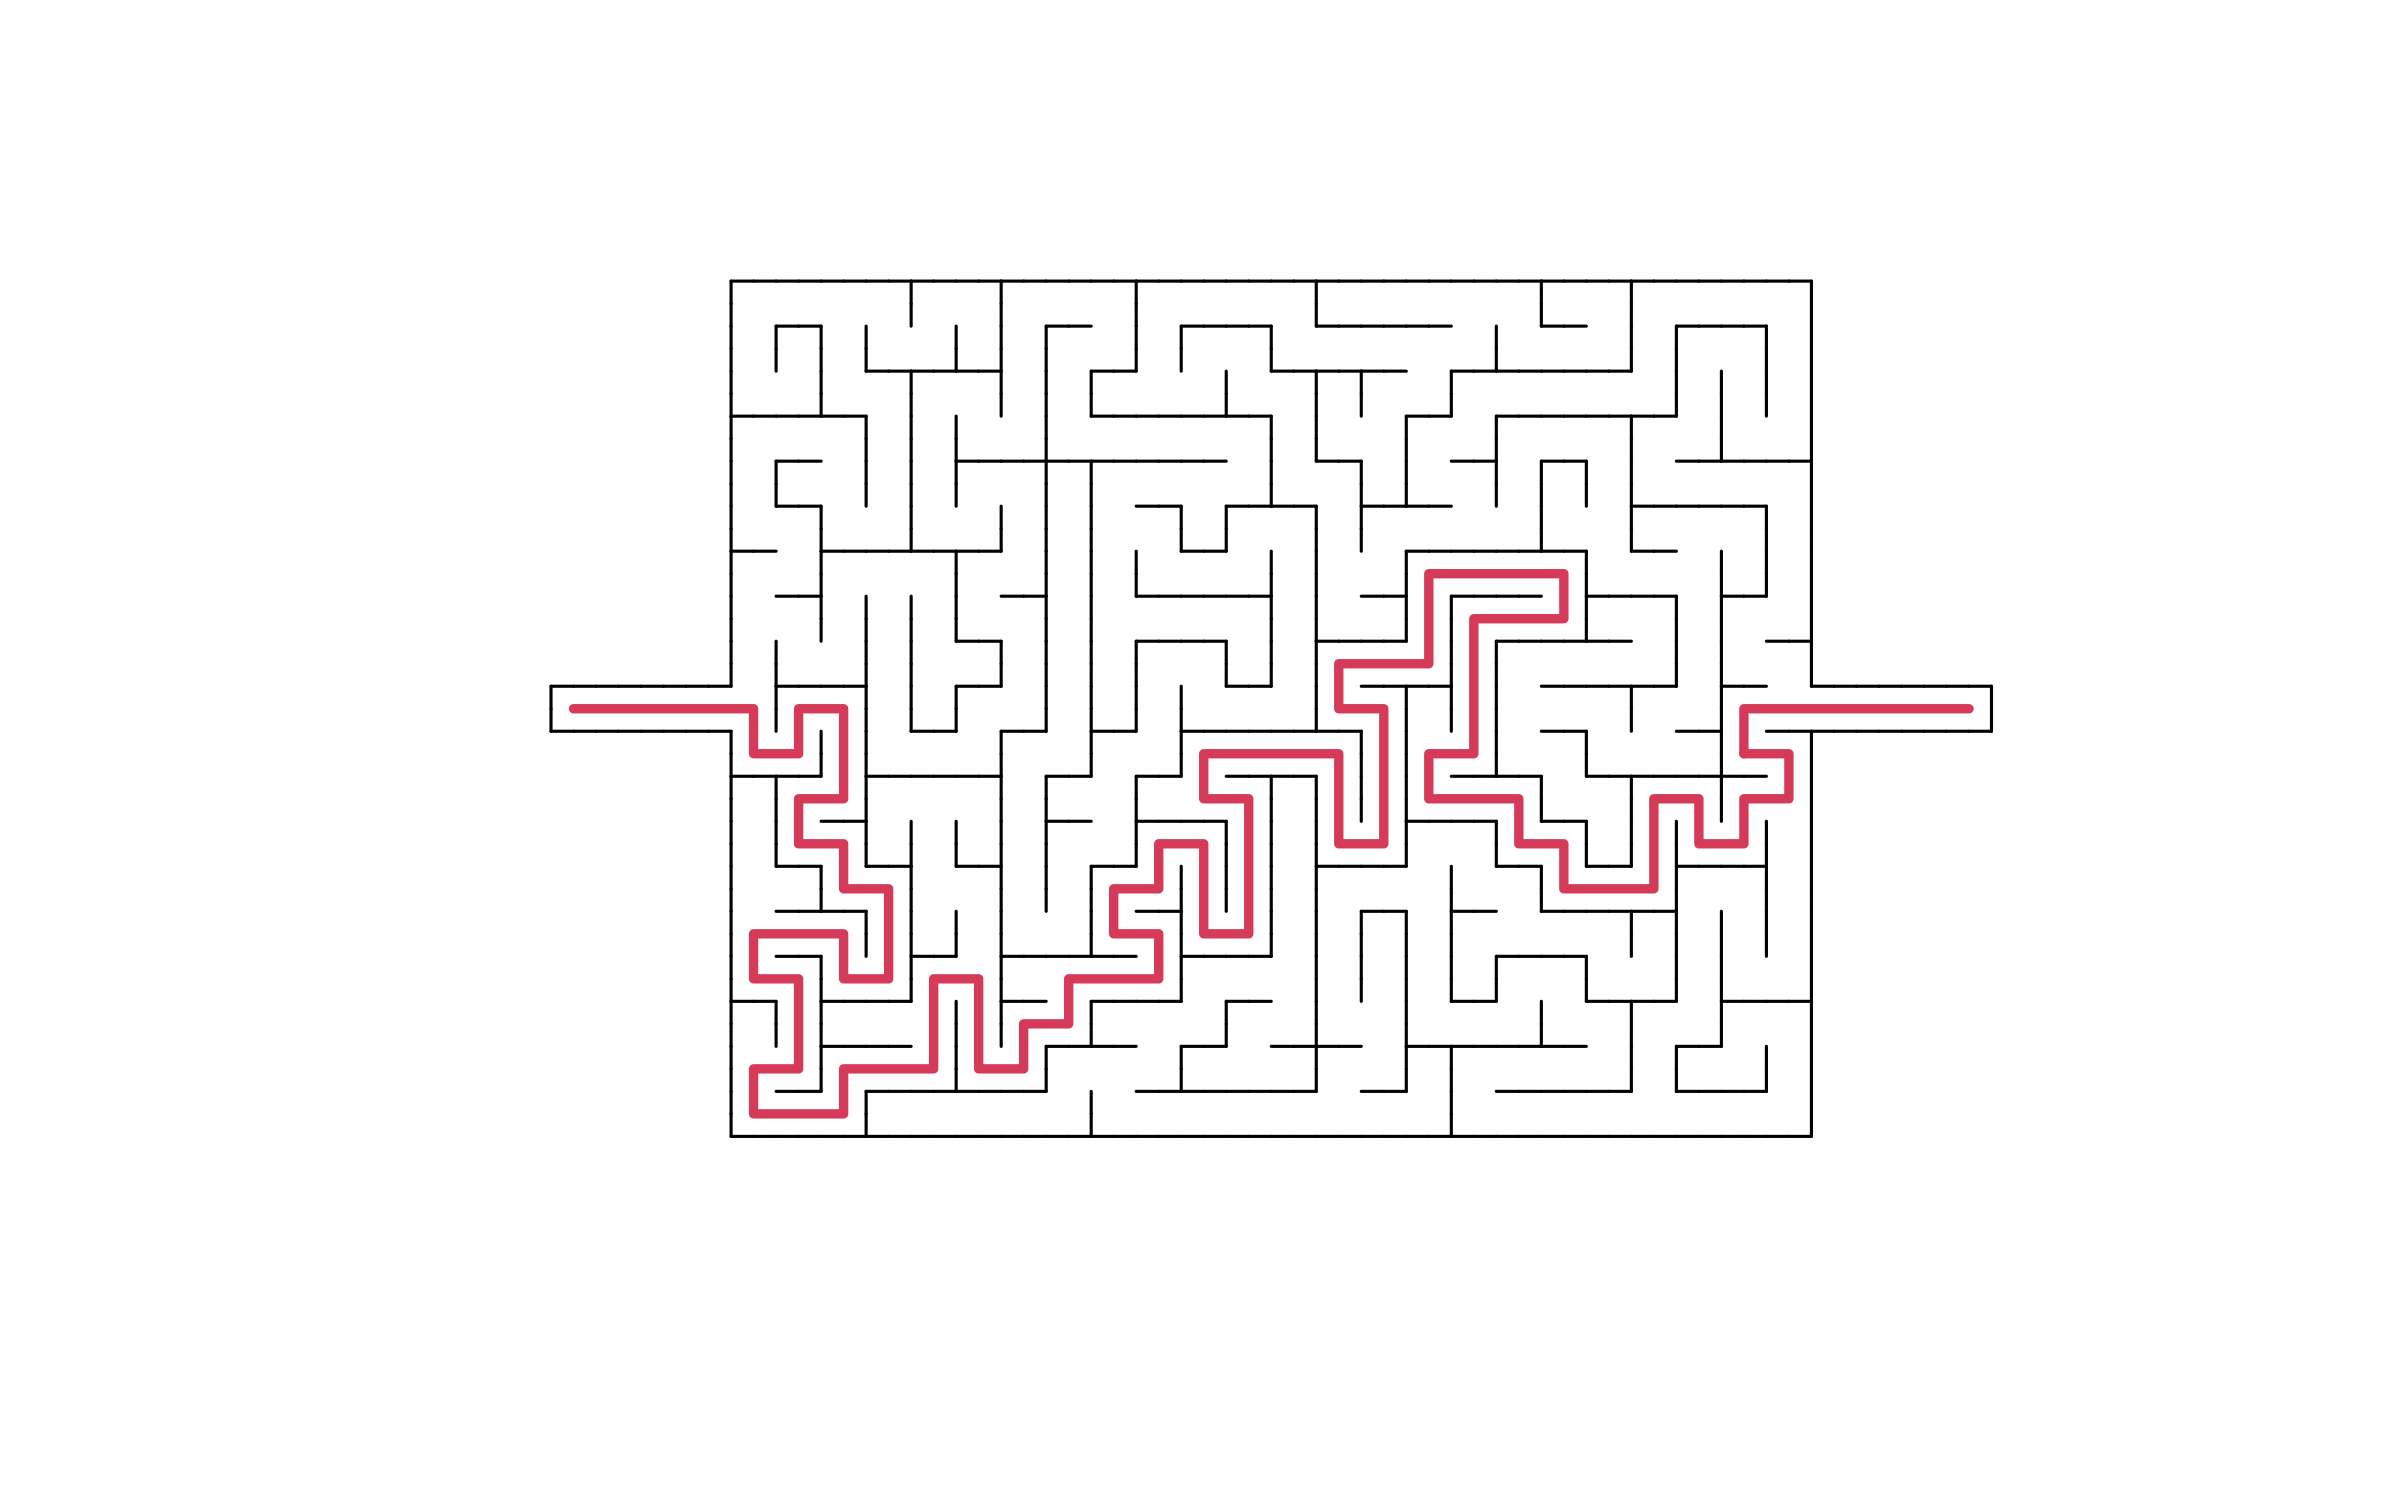
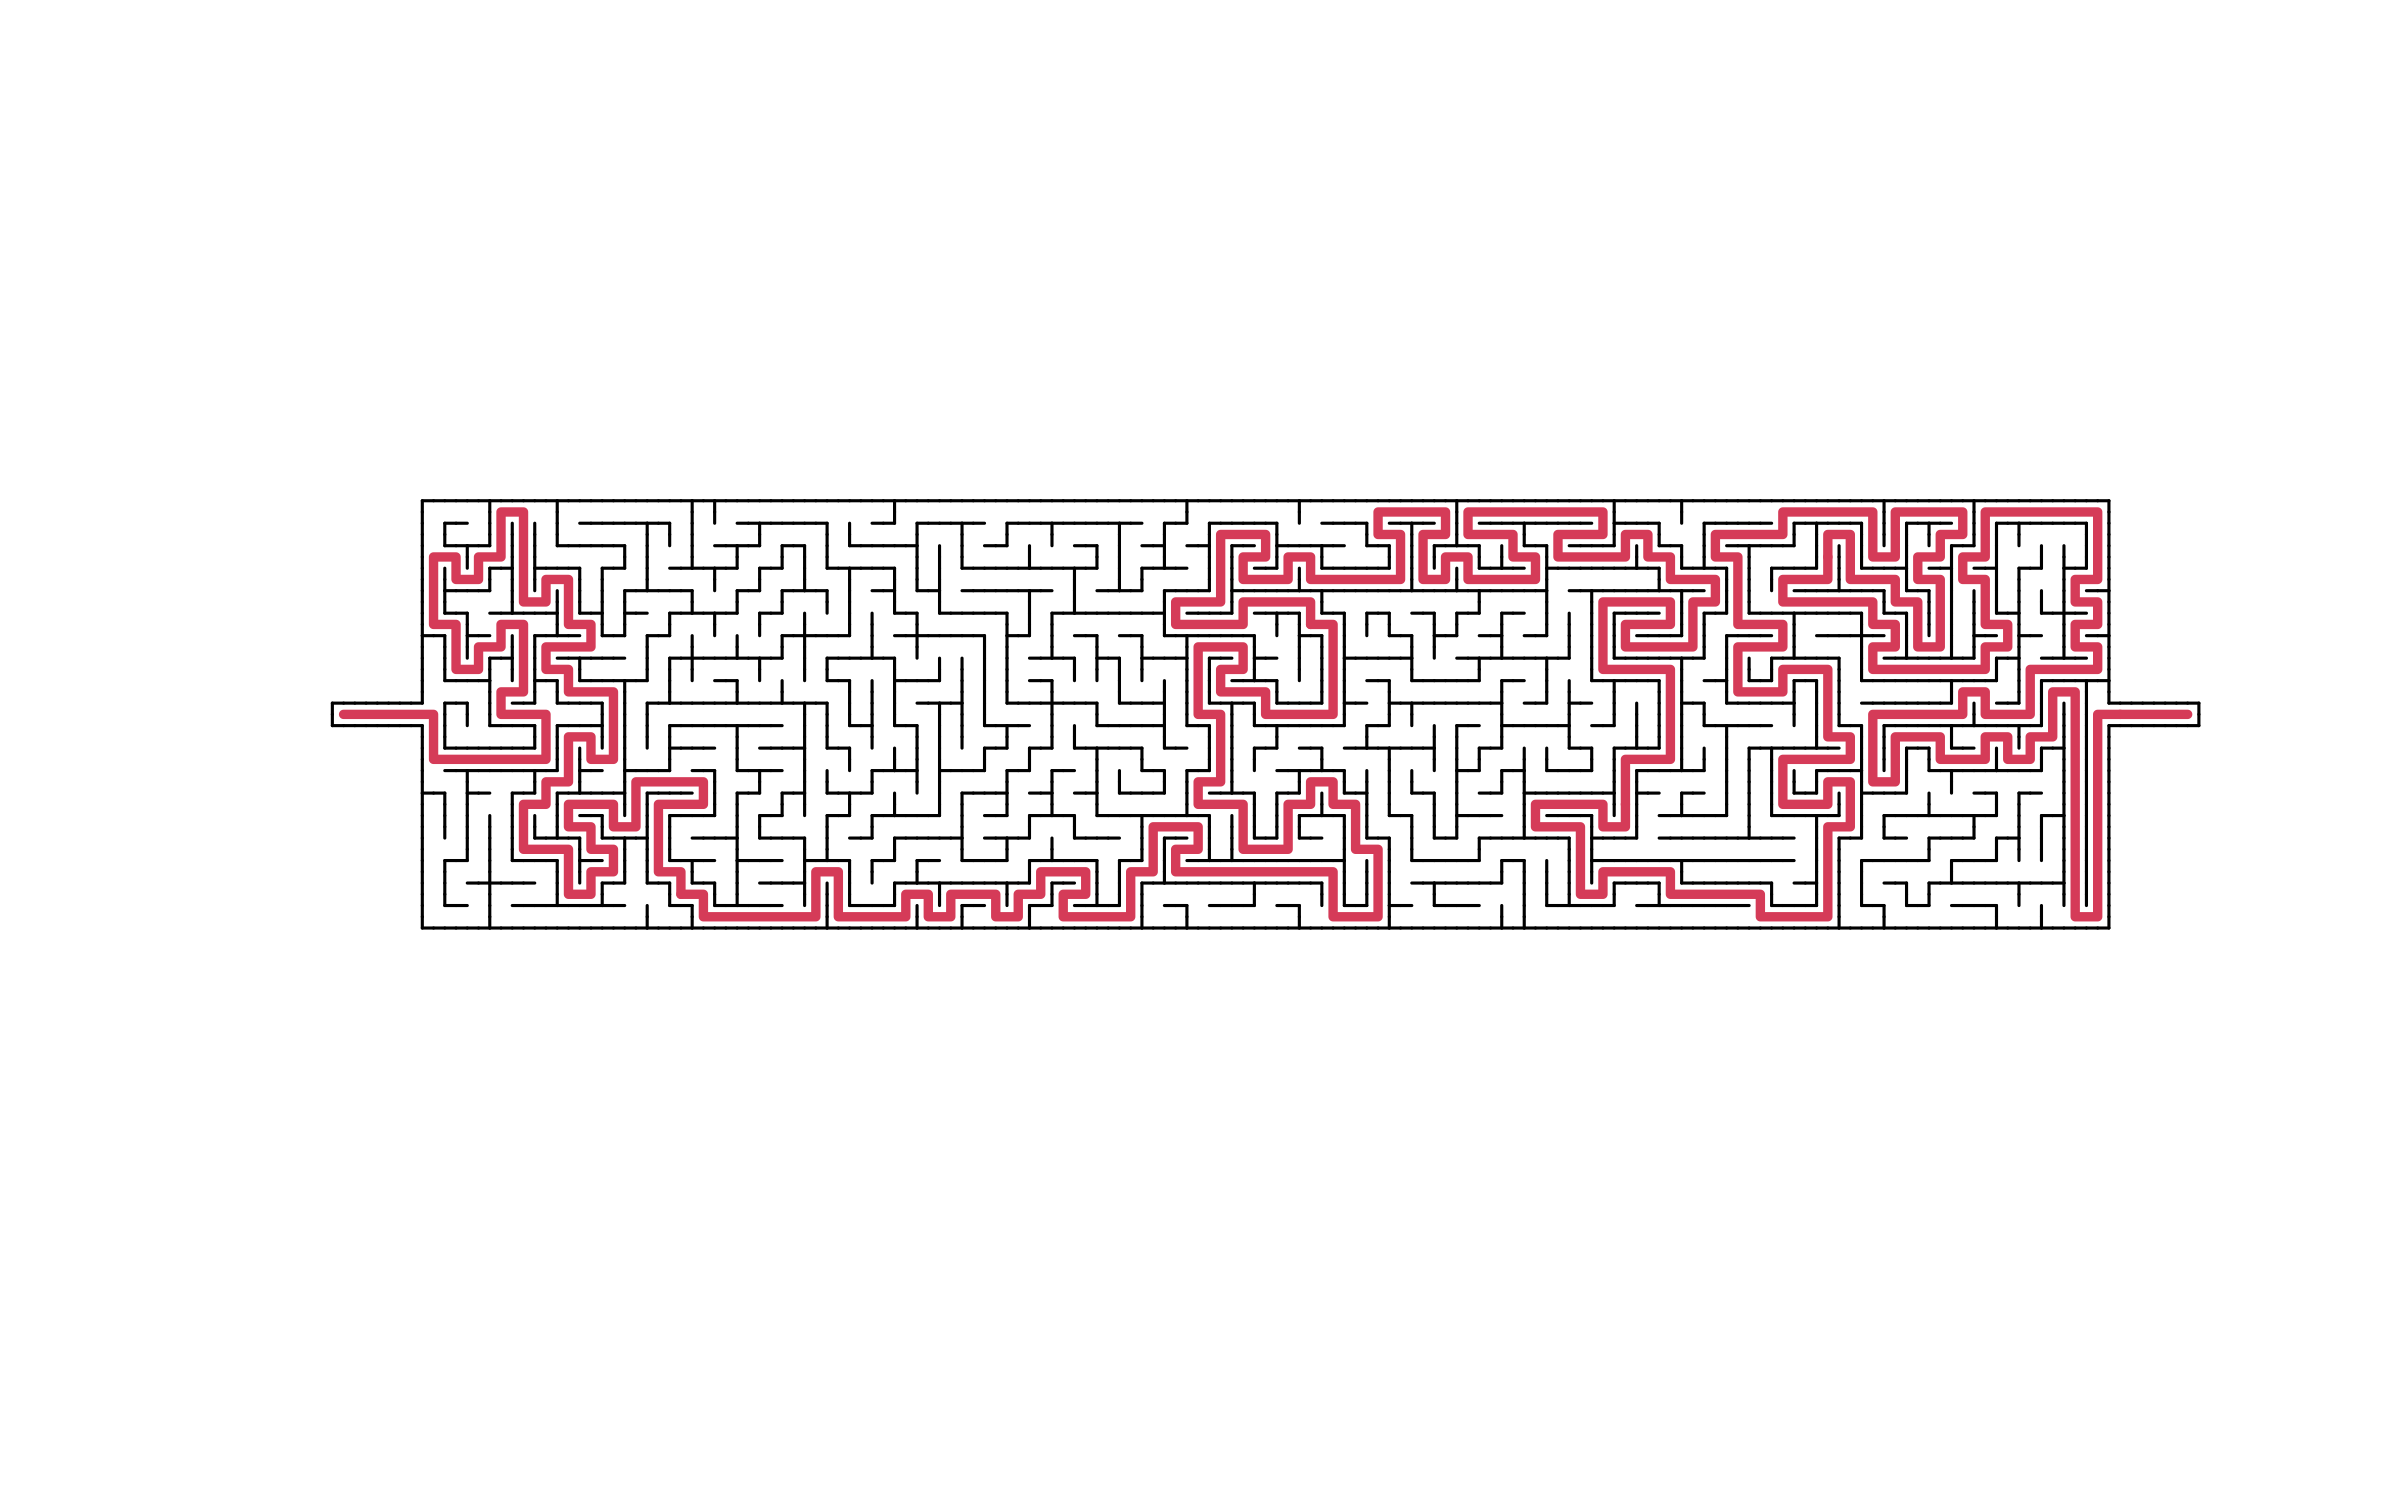
made example maze bigger.

diff --git a/README.md b/README.md
@@ -20,7 +20,7 @@ devtools::install_github("kstreet13/mazing")
 ``` r
 library(mazing)
 
-mat <- matrix(1, nrow = 19, ncol = 24)
+mat <- matrix(1, nrow = 19, ncol = 75)
 mat <- cbind(0,0,0,0,mat,0,0,0,0)
 mat[10,] <- 1
 
